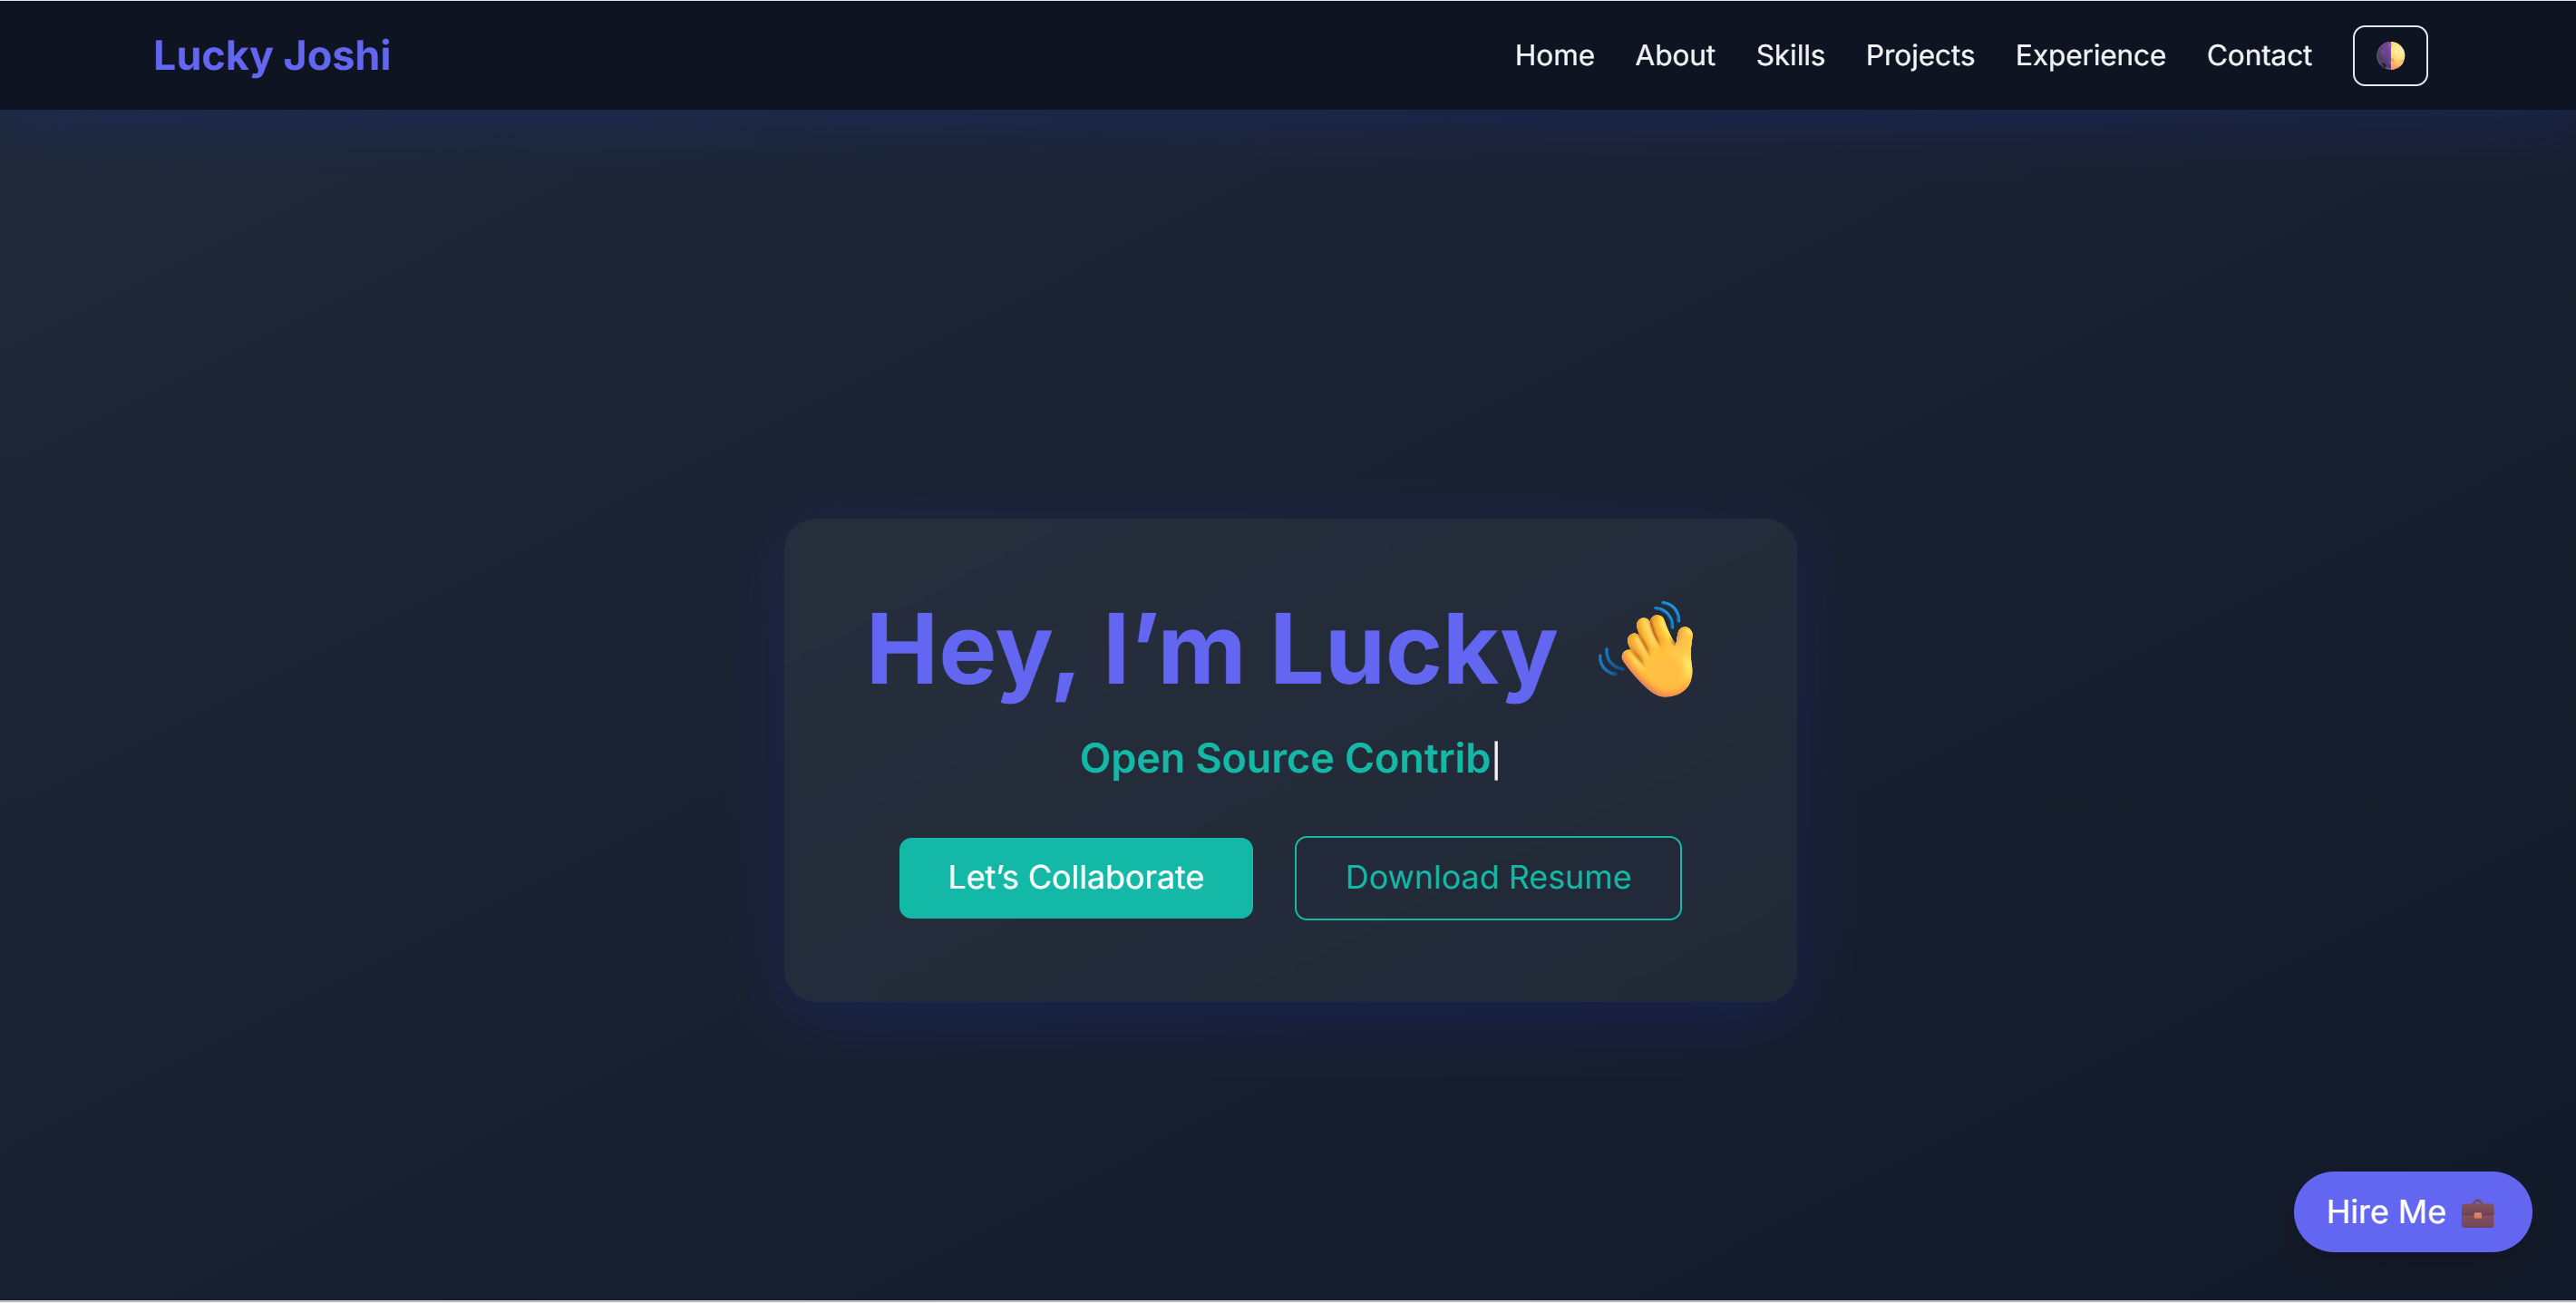
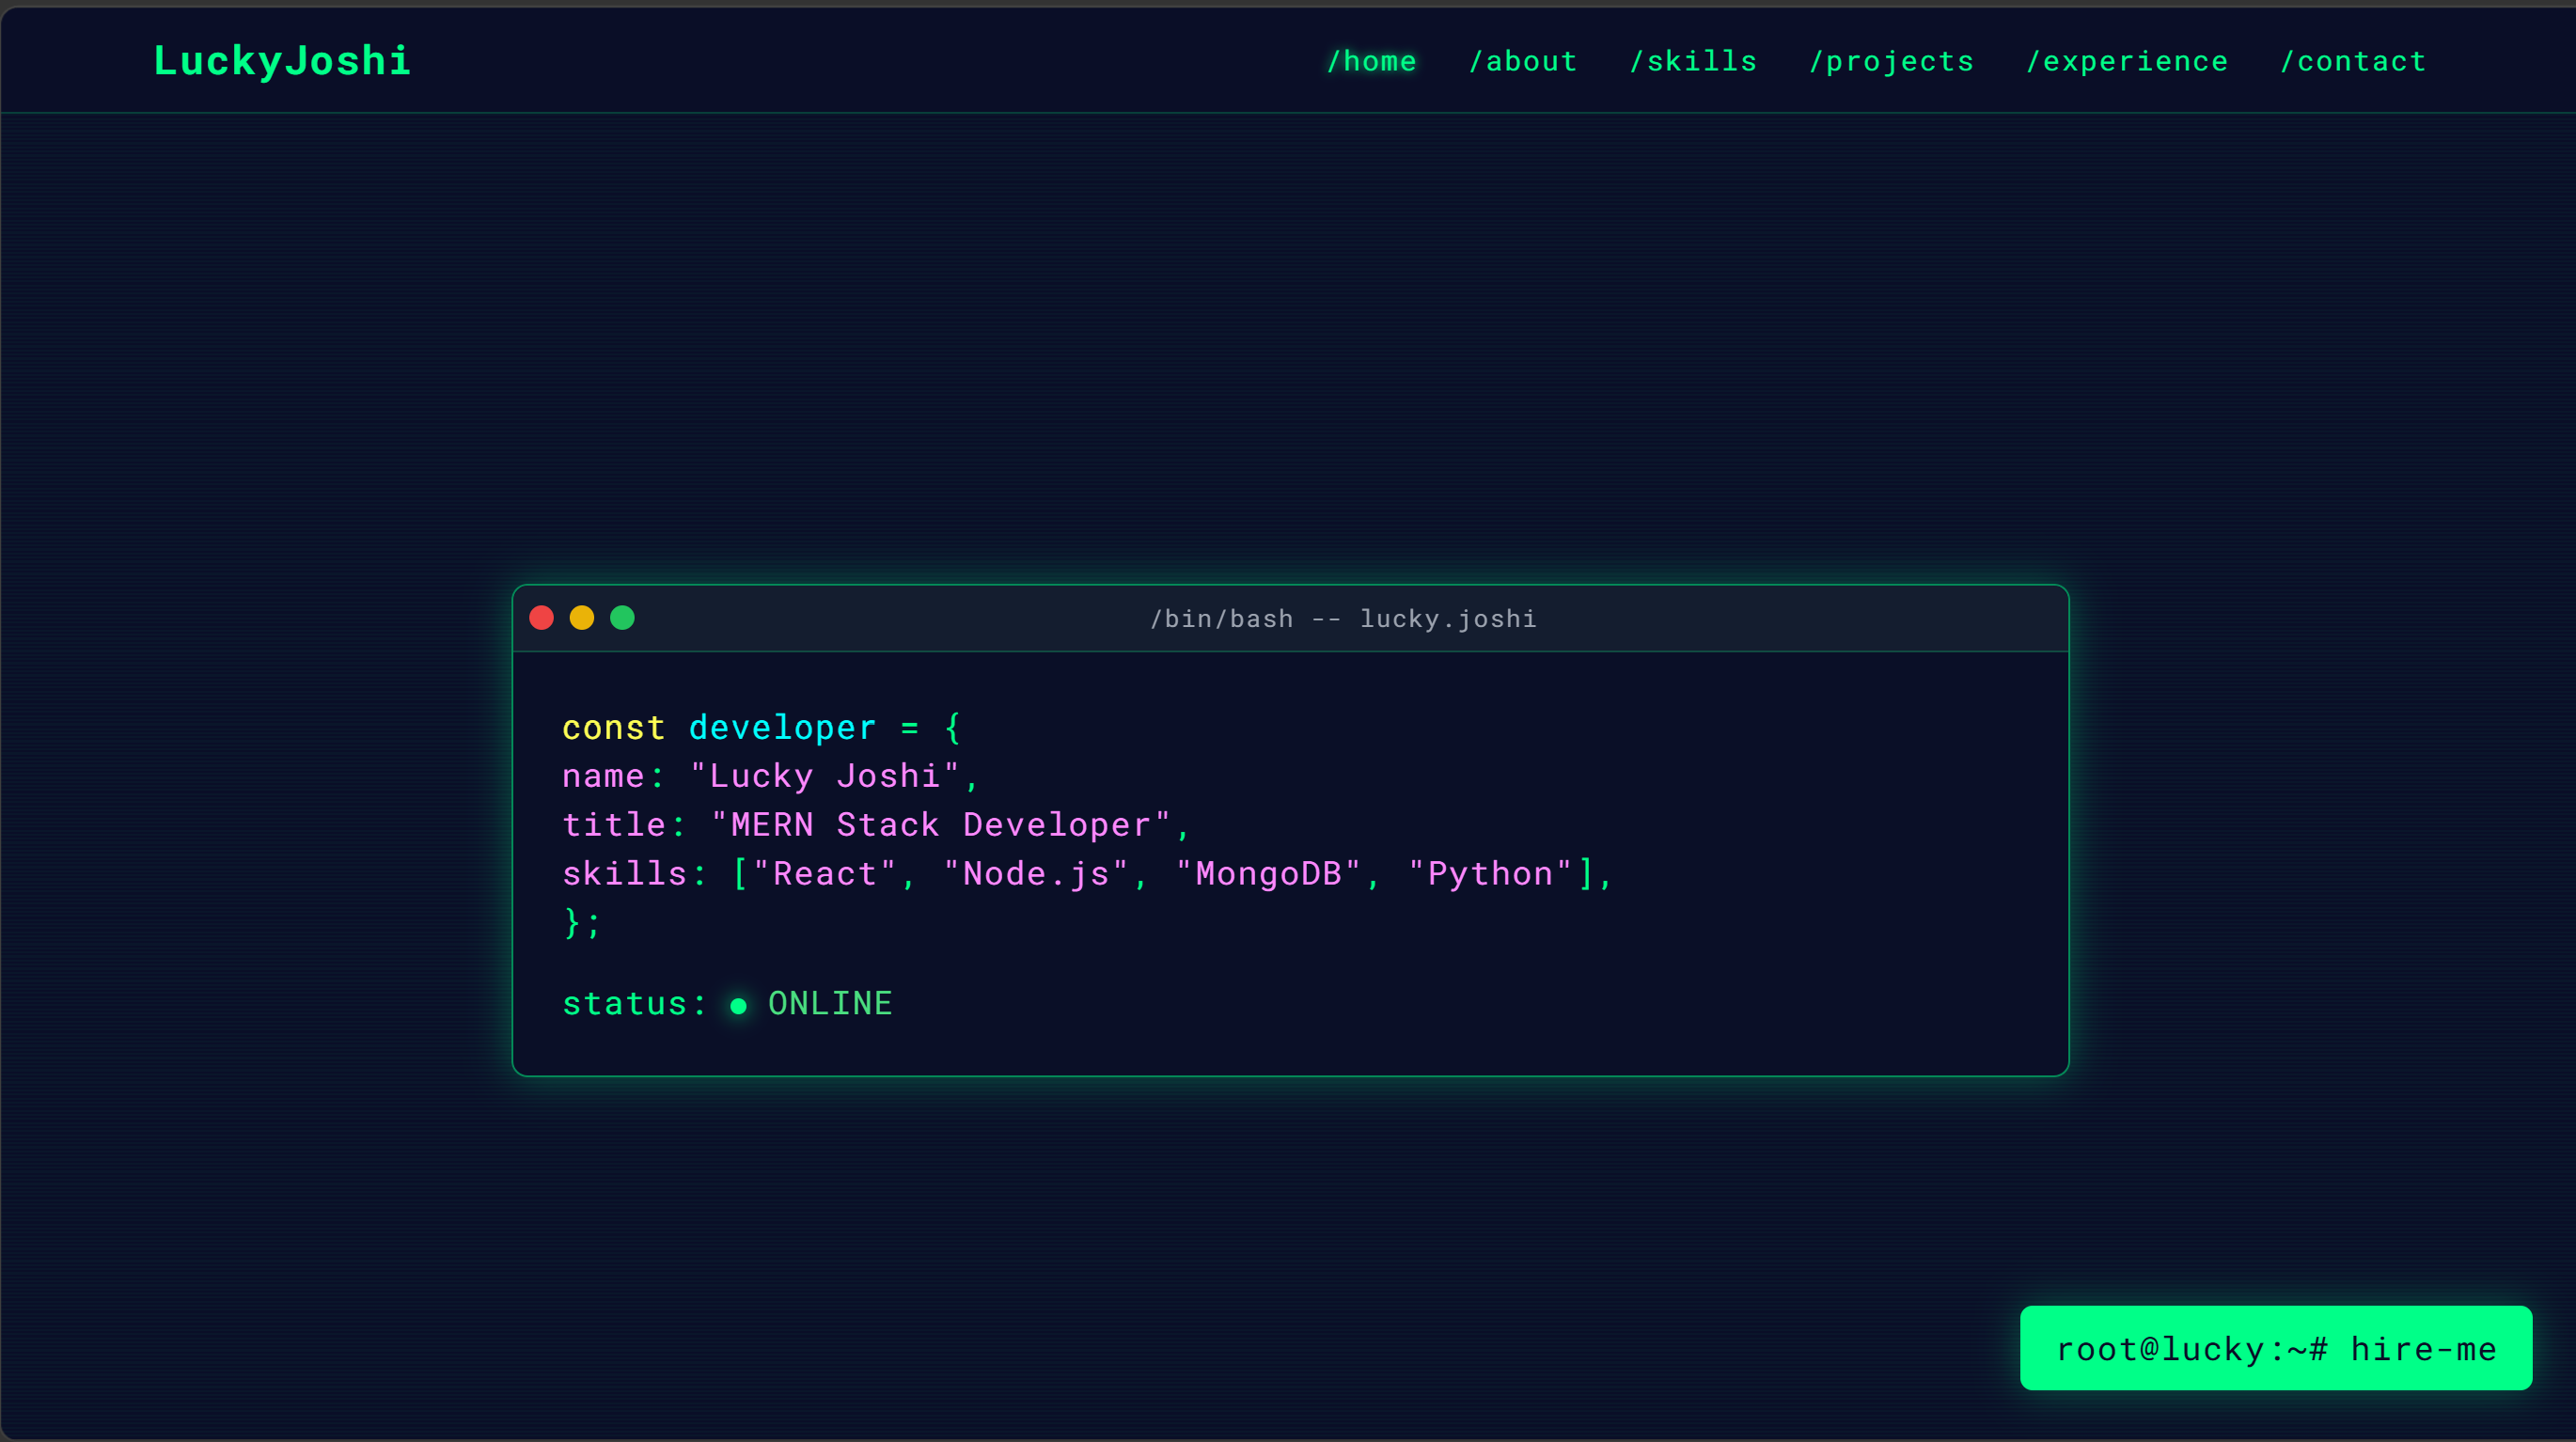
Update

diff --git a/index.html b/index.html
@@ -279,7 +279,7 @@
       <div id="projects-grid" class="grid sm:grid-cols-2 lg:grid-cols-3 gap-8">
         <!-- Project 1: Mentixo AI -->
         <div class="project-card bg-white/10 dark:bg-white/5 p-6 rounded-xl shadow-glass hover:scale-102 transition-transform duration-300" data-category="fullstack">
-          <img src="https://via.placeholder.com/400x250/3B82F6/FFFFFF?text=Mentixo+AI" alt="Mentixo AI Thumbnail" class="rounded-lg mb-4">
+          <img src="mentixo.png" alt="Mentixo AI Thumbnail" class="rounded-lg mb-4">
           <h4 class="text-xl font-bold text-accent">Mentixo AI</h4>
           <p class="text-sm mt-2 mb-4">An AI-powered study assistant featuring conversational AI for doubt solving and dynamic quiz generation. Achieved a 30% increase in user engagement compared to traditional study aids.</p>
           <div class="text-xs mb-4">
@@ -295,7 +295,7 @@
 
         <!-- Project 2: DevFlow -->
         <div class="project-card bg-white/10 dark:bg-white/5 p-6 rounded-xl shadow-glass hover:scale-102 transition-transform duration-300" data-category="fullstack">
-          <img src="https://via.placeholder.com/400x250/10B981/FFFFFF?text=DevFlow" alt="DevFlow Thumbnail" class="rounded-lg mb-4">
+          <img src="devflow.png" alt="DevFlow Thumbnail" class="rounded-lg mb-4">
           <h4 class="text-xl font-bold text-accent">DevFlow</h4>
           <p class="text-sm mt-2 mb-4">A full-stack productivity OS with Kanban boards and project analytics. Manages over 1,000 tasks for 50+ active users, boosting productivity by 40%.</p>
           <div class="text-xs mb-4">
@@ -311,7 +311,7 @@
 
         <!-- Project 3: Periodic Table Game -->
         <div class="project-card bg-white/10 dark:bg-white/5 p-6 rounded-xl shadow-glass hover:scale-102 transition-transform duration-300" data-category="games frontend">
-          <img src="https://via.placeholder.com/400x250/F59E0B/FFFFFF?text=Periodic+Game" alt="Periodic Table Game Thumbnail" class="rounded-lg mb-4">
+          <img src="periodic-game.png" alt="Periodic Table Game Thumbnail" class="rounded-lg mb-4">
           <h4 class="text-xl font-bold text-accent">Periodic Table Game</h4>
           <p class="text-sm mt-2 mb-4">An interactive game to master the periodic table. Features multiple game modes and a high-score tracker. Rated 4.9/5 by users for its fun learning experience.</p>
           <div class="text-xs mb-4">
@@ -327,7 +327,7 @@
 
         <!-- Project 4: Spyderman Game -->
         <div class="project-card bg-white/10 dark:bg-white/5 p-6 rounded-xl shadow-glass hover:scale-102 transition-transform duration-300" data-category="games">
-          <img src="https://via.placeholder.com/400x250/EF4444/FFFFFF?text=Spydy+Game" alt="Spyderman Game Thumbnail" class="rounded-lg mb-4">
+          <img src="spyderman-game.png" alt="Spyderman Game Thumbnail" class="rounded-lg mb-4">
           <h4 class="text-xl font-bold text-accent">Spyderman Shooting Game</h4>
           <p class="text-sm mt-2 mb-4">An engaging 2D shooter built with pure JavaScript. Features dynamic enemy waves and power-ups. Completed in a 48-hour game jam.</p>
           <div class="text-xs mb-4">